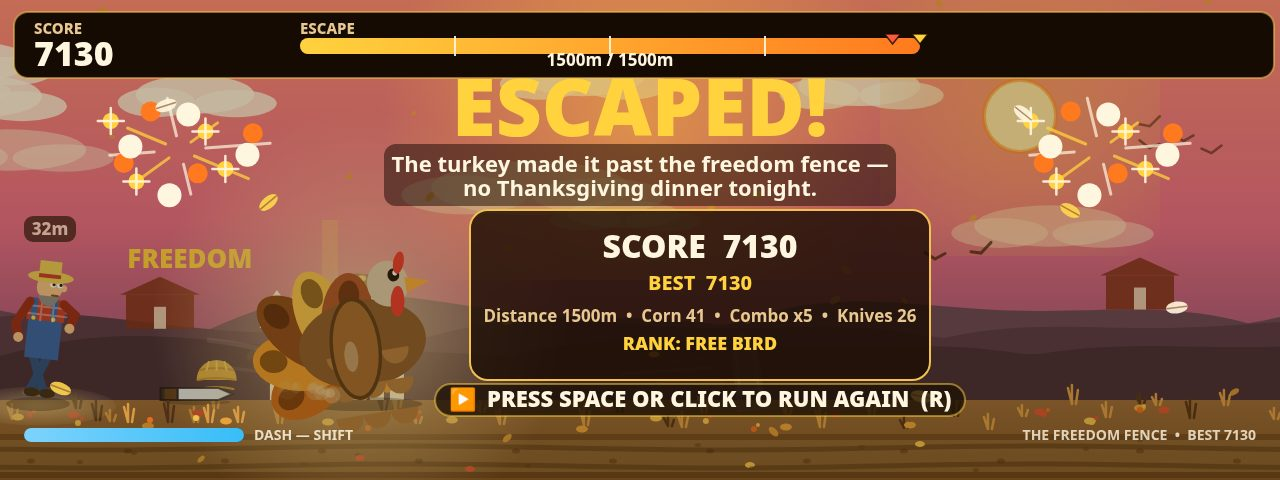
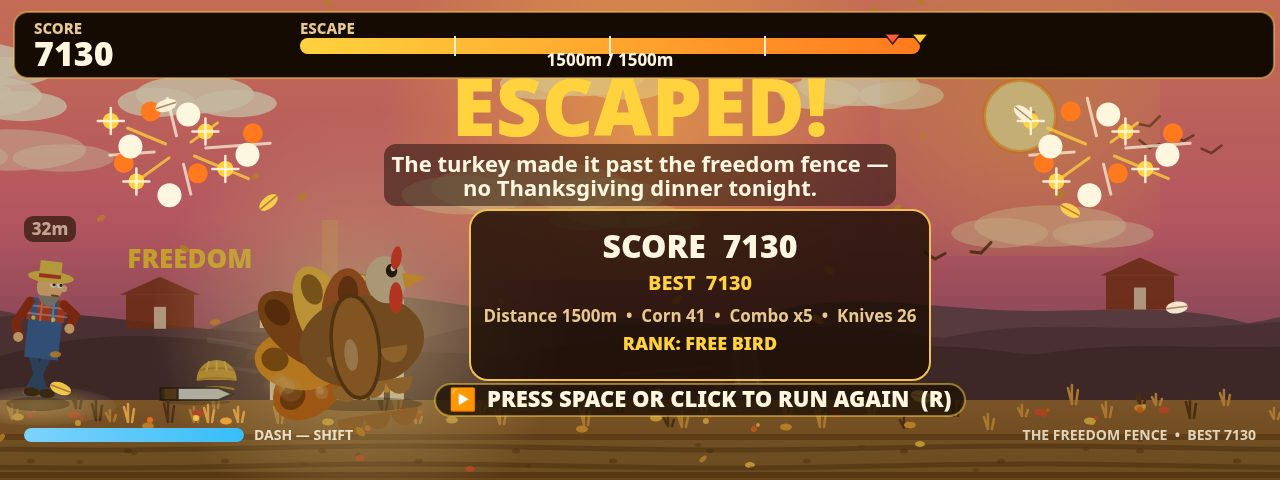
Finals R2 feel: jump buffer in input, hit flash + knife shake, pickup pop, COMBO bounce, stronger squash & landing dust
- input.js: jump press re-asserted for 6 frames (~0.1 s), so a press just
  before landing still jumps; suppressed while duck is held. Lives in
  input.js on purpose: a world-side buffer moved the end pilot's lives
  2 -> 4 and put a shield ring on the hero turkey (seed 159: 7130 ->
  7475); pilots drive step() directly, so they never see this buffer.
  No coyote time: the ground is flat, the bird only leaves it by
  jumping, so a coyote window would only double-jump (verified).
- world.js: feel-only timers (shake, hitFlash, pop/popKind, comboPop),
  decayed first in step() so none freezes on the end screen; knife hits
  shake + flash white, any hit flashes; hard landings kick 5 dust
  puffs; corn/pumpkin/feather set the pop ring. No rule or random
  change: gameplay still uses only random(), feedback only prandom.
- render.js: deterministic shake (elapsed-driven, play screen only) +
  white hit flash behind the HUD; pickup pop ring with '+N' / GOLDEN! /
  SHIELD! at the bird; COMBO pill bounces per pickup and turns gold at
  x5; jump stretch 1.06 -> 1.10, squash depth 0.18 -> 0.22, landing
  dust ring bigger/brighter.
- Screenshots re-shot: play (gold COMBO x5), danger, end (7130, no
  shield ring); start byte-identical.
- Verified: base pilot 3/20, strong 5/20, determinism hash identical,
  fairness holds (no-input 94m / dash-only 121m / random 181m, all
  caught, seed 7); dossier text 161,413 / 163,840.

Changed region(s): [[0.1875, 0.5312, 0.3438, 0.8438], [0.0312, 0.7188, 0.0625, 0.75]]

diff --git a/game/src/render.js b/game/src/render.js
@@ -4,7 +4,7 @@
 // trees, fences and pumpkins, a turkey you can recognise at a glance and
 // a farmer in hot pursuit, with dust, feathers, embers and falling leaves
 // on top, and a big clear HUD. No image, font or sound ever leaves game/.
-import { FIELD, PX_PER_M, TURKEY_X, TOTAL_DISTANCE, TURKEY, FARMER, LIVES, FONT, PALETTE, STAGES } from './config.js';
+import { FIELD, PX_PER_M, TURKEY_X, TOTAL_DISTANCE, TURKEY, FARMER, LIVES, FONT, PALETTE, STAGES, PICKUP } from './config.js';
 import { KIND_OVEN, KIND_FENCE, KIND_BALE, KIND_HAYSTACK, KIND_CORN, KIND_PUMPKIN, KIND_FEATHER, KIND_KNIFE } from './world.js';
 
 export const SCREEN_TITLE = 'title';
@@ -933,8 +933,8 @@ export function createRenderer(canvas) {
     const p = state.player;
     const gy = FIELD.groundY;
     const air = p.y > 0;
-    const squashY = p.squash > 0 ? 1 - p.squash * 0.18 : 1;
-    const squashX = p.squash > 0 ? 1 + p.squash * 0.18 : 1;
+    const squashY = p.squash > 0 ? 1 - p.squash * 0.22 : 1;
+    const squashX = p.squash > 0 ? 1 + p.squash * 0.22 : 1;
     // dx shifts the whole bird (shadow, dust, wind lines; the warm
     // glow is moved separately in drawField) without touching
     // TURKEY_X, so play, the end screen and every collision stay
@@ -996,20 +996,19 @@ export function createRenderer(canvas) {
       context.fill();
       context.restore();
     }
-    // Landing dust ring: a flat ring that spreads and fades as the
-    // squash settles, so a landing reads even in a still frame.
+    // Landing dust ring: spreads and fades as the squash settles.
     if (p.squash > 0 && !air) {
       const k = 1 - p.squash;
-      context.strokeStyle = `rgba(240,214,170,${p.squash * 0.55})`;
-      context.lineWidth = 3;
+      context.strokeStyle = `rgba(240,214,170,${p.squash * 0.7})`;
+      context.lineWidth = 4;
       context.beginPath();
-      context.ellipse(cx, gy + 3, 22 + k * 42, 6 + k * 5, 0, 0, Math.PI * 2);
+      context.ellipse(cx, gy + 3, 22 + k * 54, 6 + k * 6, 0, 0, Math.PI * 2);
       context.stroke();
     }
     context.save();
     context.translate(cx, feetY + runBob);
     context.rotate(tilt);
-    context.scale(squashX * (pose === 'jump' ? 0.96 : 1) * scale, squashY * (pose === 'jump' ? 1.06 : 1) * scale);
+    context.scale(squashX * (pose === 'jump' ? 0.94 : 1) * scale, squashY * (pose === 'jump' ? 1.1 : 1) * scale);
     if (p.pumpkin > 0) {
       const glow = context.createRadialGradient(0, -44, 6, 0, -44, 110);
       glow.addColorStop(0, 'rgba(255,210,62,0.55)');
@@ -1688,10 +1687,13 @@ export function createRenderer(canvas) {
         context.fill();
       }
     }
-    // Combo pill under the score.
+    // COMBO pill bounces per pickup, gold at the x5 cap.
     if (state.combo >= 2) {
-      pill(30, 86, 150, 34, 10, 'rgba(255,122,30,0.9)');
-      text(`COMBO x${state.combo}`, 105, 110, 20, '#fff6e0', 'center', '900');
+      const bp = 1 + 0.3 * Math.max(0, state.comboPop) / 0.22;
+      const gold = state.combo >= PICKUP.comboMax;
+      pill(105 - 75 * bp, 103 - 17 * bp, 150 * bp, 34 * bp, 10,
+        gold ? 'rgba(255,210,62,0.95)' : 'rgba(255,122,30,0.9)');
+      text(`COMBO x${state.combo}`, 105, 110, 20, gold ? '#3a2400' : '#fff6e0', 'center', '900');
     }
     // Stamina bar, bottom left, with a dash hint.
     pill(24, 428, 220, 14, 7, 'rgba(20,10,2,0.6)');
@@ -2114,6 +2116,20 @@ export function createRenderer(canvas) {
       context.fillRect(gx - 210, gy - 210, 420, 420);
     }
     drawTurkey(state, turkeyScale, escaped, turkeyDx);
+    // Pickup pop: gold ring + payoff text at the bird, 0.35 s.
+    if (state.pop > 0 && screen === SCREEN_PLAY) {
+      const pk = 1 - state.pop / 0.35;
+      const pcx = TURKEY_X + TURKEY.width / 2 + turkeyDx;
+      const pcy = FIELD.groundY - state.player.y - 44;
+      context.strokeStyle = `rgba(255,210,62,${(1 - pk) * 0.9})`;
+      context.lineWidth = 4;
+      context.beginPath();
+      context.arc(pcx, pcy, 40 + pk * 34, 0, Math.PI * 2);
+      context.stroke();
+      const plabel = state.popKind === 0 ? `+${PICKUP.cornPoints * state.combo}`
+        : state.popKind === 1 ? 'GOLDEN!' : 'SHIELD!';
+      text(plabel, pcx, pcy - 52 - pk * 22, 22, '#ffd23e', 'center', '900');
+    }
     drawFarmer(state, escaped ? 1.0 : 1.22, screen);
     // Haystacks stand in front, so a hiding turkey really disappears.
     // A passed haystack fades with the rest, for the same reason: the
@@ -2136,8 +2152,17 @@ export function createRenderer(canvas) {
     context.setTransform(1, 0, 0, 1, 0, 0);
     context.fillStyle = PALETTE.backdrop;
     context.fillRect(0, 0, canvas.width, canvas.height);
-    context.setTransform(view.scale, 0, 0, view.scale, view.x, view.y);
+    // Knife-hit shake + white hit flash, play only: both are functions
+    // of elapsed/state timers, so the same run paints the same frame,
+    // and neither can freeze onto the end screen (step() stops there).
+    const shx = screen === SCREEN_PLAY && state.shake > 0 ? Math.sin(state.elapsed * 71) * 5 * state.shake : 0;
+    const shy = screen === SCREEN_PLAY && state.shake > 0 ? Math.cos(state.elapsed * 63) * 4 * state.shake : 0;
+    context.setTransform(view.scale, 0, 0, view.scale, view.x + shx * view.scale, view.y + shy * view.scale);
     drawField(state, screen);
+    if (screen === SCREEN_PLAY && state.hitFlash > 0) {
+      context.fillStyle = `rgba(255,255,255,${state.hitFlash * 1.2})`;
+      context.fillRect(0, 0, FIELD.width, FIELD.height);
+    }
     if (screen === SCREEN_TITLE) drawTitle(state, best);
     else if (screen === SCREEN_PAUSED) { drawHud(state, best, screen); drawPaused(); }
     // Over screen: the celebration is drawn FIRST and the HUD last.

diff --git a/game/src/world.js b/game/src/world.js
@@ -94,6 +94,7 @@ export function createWorld(random) {
     hides: 0, knivesDodged: 0, over: false, escaped: false,
     nextSpawnAt: 26, flash: '', flashTimer: 0, banner: '', bannerTimer: 0,
     speed: 0, // m/s this step, for the HUD and the farmer chase
+    shake: 0, hitFlash: 0, pop: 0, popKind: 0, comboPop: 0, // feel timers, decayed in step()
   };
 
   function reset() {
@@ -111,6 +112,7 @@ export function createWorld(random) {
     state.knivesDodged = 0; state.over = false; state.escaped = false;
     state.nextSpawnAt = 26; state.flash = ''; state.flashTimer = 0;
     state.banner = STAGES[0].name; state.bannerTimer = 2.6; state.speed = 0;
+    state.shake = 0; state.hitFlash = 0; state.pop = 0; state.popKind = 0; state.comboPop = 0;
   }
 
   function freeEntity() {
@@ -206,8 +208,11 @@ export function createWorld(random) {
     farmer.windup = 0.45;
   }
 
-  function hurt(events) {
+  function hurt(events, knifeHit) {
     if (player.invulnerable > 0 || player.pumpkin > 0) return events;
+    // Hit feedback only: white flash, plus shake for a knife hit.
+    state.hitFlash = 0.22;
+    if (knifeHit) state.shake = 1;
     if (player.shield) {
       player.shield = false;
       farmer.gap = Math.max(0, farmer.gap - FARMER.shieldCost);
@@ -237,8 +242,10 @@ export function createWorld(random) {
     state.corn += 1;
     state.combo = Math.min(PICKUP.comboMax, state.combo + 1);
     state.comboTimer = PICKUP.comboWindow;
+    state.comboPop = 0.22; // COMBO pill bounce
     if (state.combo > state.bestCombo) state.bestCombo = state.combo;
     state.score += PICKUP.cornPoints * state.combo;
+    state.pop = 0.35; state.popKind = 0; // pickup pop ring
     // Dropped kernels distract the farmer: every corn buys a little room.
     farmer.gap = Math.min(FARMER.gapMax, farmer.gap + 0.5);
     burst(TURKEY_X + 30, FIELD.groundY - 70 - player.y, 3, 6, 120, 140);
@@ -247,6 +254,11 @@ export function createWorld(random) {
   // input: { jump, dash, duck, left, right } — booleans this step.
   function step(dt, input, harmless) {
     let events = 0;
+    // Feel timers decay first, so none freezes on the end screen.
+    if (state.shake > 0) state.shake -= dt * 2.5;
+    if (state.hitFlash > 0) state.hitFlash -= dt;
+    if (state.pop > 0) state.pop -= dt;
+    if (state.comboPop > 0) state.comboPop -= dt;
     if (state.over || state.escaped) return events;
     state.elapsed += dt;
     const stage = Math.min(STAGES.length - 1, Math.floor(state.distance / STAGE_LEN));
@@ -269,6 +281,9 @@ export function createWorld(random) {
     // --- the turkey ---
     const onGround = player.y <= 0;
     player.ducking = !!input.duck && onGround && player.hiding <= 0;
+    // Jump buffering lives in input.js: pilots drive step() directly,
+    // so a buffer here moved the end pilot's lives 2 -> 4 and put a
+    // shield ring on the hero turkey. See input.js takeActions().
     if (input.jump && onGround && player.hiding <= 0) {
       player.vy = TURKEY.jumpVel;
       player.y = 0.1;
@@ -277,7 +292,7 @@ export function createWorld(random) {
     player.vy -= TURKEY.gravity * dt;
     player.y += player.vy * dt;
     if (player.y <= 0) {
-      if (player.vy < -500) { player.squash = 1; dust(); dust(); dust(); }
+      if (player.vy < -500) { player.squash = 1; dust(); dust(); dust(); dust(); dust(); }
       player.y = 0; player.vy = 0;
     }
     if (player.squash > 0) player.squash = Math.max(0, player.squash - dt * 3);
@@ -373,7 +388,7 @@ export function createWorld(random) {
         const knifeH = 26;
         if (Math.abs(e.x - state.distance) < 1.0 && overlaps(px, TURKEY.width, turkeyTop, turkeyBot - turkeyTop, knifeScreenX - 16, 34, knifeScreenY - knifeH / 2, knifeH)) {
           e.active = false;
-          events = hurt(events);
+          events = hurt(events, true); // knife hit: shake the frame
           if (events & EVENT_OVER) return events;
         }
         continue;
@@ -397,6 +412,7 @@ export function createWorld(random) {
             state.pumpkins += 1; player.pumpkin = PICKUP.pumpkinTime;
             farmer.gap = Math.min(FARMER.gapMax, farmer.gap + PICKUP.pumpkinGap);
             state.score += PICKUP.pumpkinPoints;
+            state.pop = 0.35; state.popKind = 1;
             state.flash = 'GOLDEN PUMPKIN! UNTOUCHABLE!';
             state.flashTimer = 1.6;
             burst(TURKEY_X + 30, FIELD.groundY - 80, 3, 14, 200, 200);
@@ -404,6 +420,7 @@ export function createWorld(random) {
           } else {
             state.feathers += 1; player.shield = true;
             state.score += 50;
+            state.pop = 0.35; state.popKind = 2;
             state.flash = 'FEATHER SHIELD!';
             state.flashTimer = 1.4;
             events |= EVENT_PICKUP;

diff --git a/game/src/input.js b/game/src/input.js
@@ -22,12 +22,13 @@ export function createInput(target) {
   let duck = false;
   let dash = false;
   let actions = 0;
+  let jumpBuf = 0; // frames left of a buffered jump press (~0.1 s at 60 fps)
 
   window.addEventListener('keydown', (event) => {
     if (LEFT.has(event.code)) left = true;
     else if (RIGHT.has(event.code)) right = true;
     else if (JUMP.has(event.code)) {
-      if (!event.repeat) actions |= ACTION_JUMP;
+      if (!event.repeat) { actions |= ACTION_JUMP; jumpBuf = 6; }
     } else if (DUCK.has(event.code)) duck = true;
     else if (DASH.has(event.code)) dash = true;
     else if (PAUSE.has(event.code)) {
@@ -46,11 +47,12 @@ export function createInput(target) {
     else if (DASH.has(event.code)) dash = false;
   });
   window.addEventListener('blur', () => {
-    left = false; right = false; duck = false; dash = false;
+    left = false; right = false; duck = false; dash = false; jumpBuf = 0;
   });
   target.addEventListener('pointerdown', (event) => {
     event.preventDefault();
     actions |= ACTION_JUMP;
+    jumpBuf = 6;
   });
 
   return {
@@ -59,6 +61,14 @@ export function createInput(target) {
       return { left, right, duck, dash };
     },
     takeActions() {
+      // Buffered jump: re-assert for a few frames, so the next
+      // grounded step jumps. Never while duck is held (that would
+      // jump the bird into the high knife it was ducking). Pilots
+      // drive world.step() directly, so their runs are untouched.
+      if (jumpBuf > 0) {
+        jumpBuf -= 1;
+        if (!duck) actions |= ACTION_JUMP;
+      }
       const taken = actions;
       actions = 0;
       return taken;
